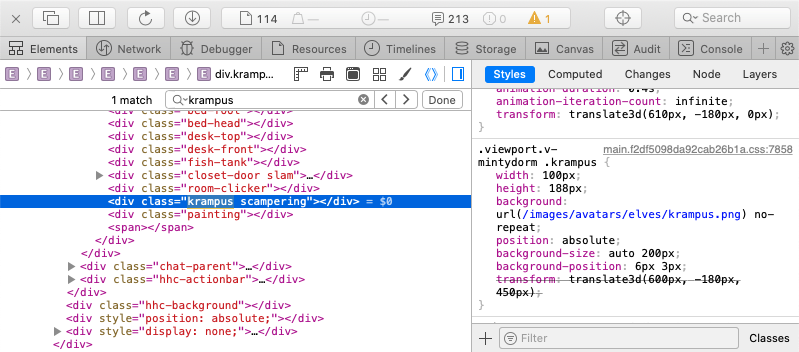
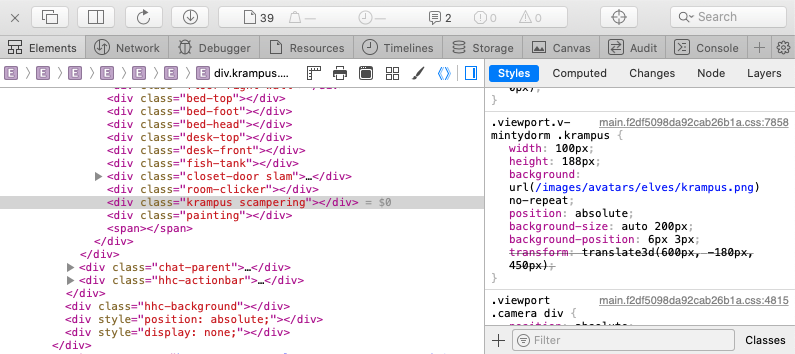
Fix incorrect image and class name.

Changed region(s): [[0.0, 0.0, 1.0, 1.0], [0.9358, 0.9375, 0.966, 0.9688], [0.7245, 0.9062, 0.7547, 0.9375]]

diff --git a/docs/challenges/c7.md b/docs/challenges/c7.md
@@ -17,7 +17,7 @@ Each elf has their own specific CSS class and avatar image (there's even a few [
 
 ![Minty CSS](../img/challenges/c7/c7_2.png)
 
-Additionally, the HTML for Minty's room contains a div titled `krampus_scampering` with a `krampus.png` background image that is stored in the same location as the other elf avatars, `/images/avatars/elves/`.
+Additionally, the HTML for Minty's room contains a div with a class titled `krampus` and a `krampus.png` background image that is stored in the same location as the other elf avatars, `/images/avatars/elves/`.
 
 ![Krampus CSS](../img/challenges/c7/c7_3.png)
 
